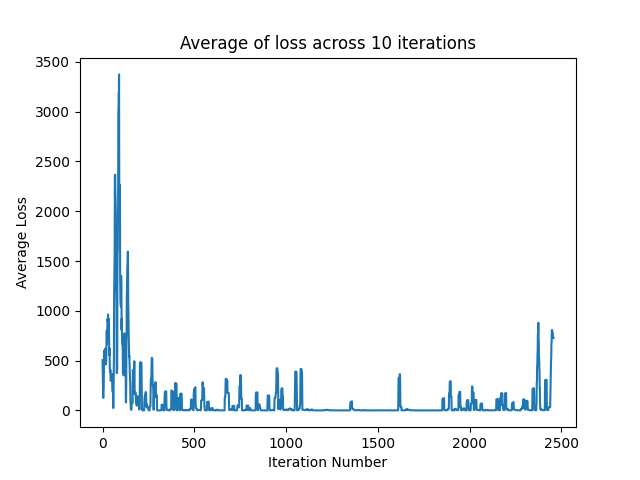
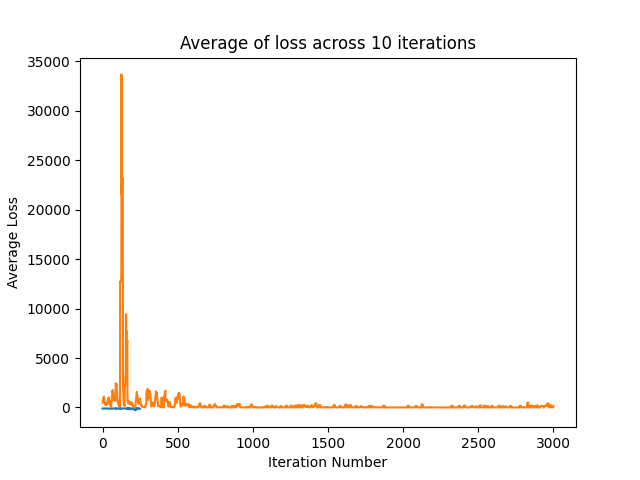
Added logs and verbosity for camera agent, fixed frame processing. Created new cliffwalking xml with modified rewards. Generated graphs for runs.

diff --git a/Grammar_Demo/models/DeepQLearner.py b/Grammar_Demo/models/DeepQLearner.py
@@ -72,7 +72,6 @@ class DeepQLearner(object):
         discount_factor = 0.5, \
         epsilon = 0.2, \
         epsilon_decay = 1, \
-        dyna = 10, \
         clip = 1, \
         learning_rate = 0.2, \
         load_path = None, \
@@ -90,7 +89,6 @@ class DeepQLearner(object):
         self.discount_factor = discount_factor
         self.epsilon = epsilon
         self.epsilon_decay = epsilon_decay
-        self.dyna = dyna
         self.clip = clip
         self.max_samples = 100
         self.camera = camera
@@ -110,11 +108,11 @@ class DeepQLearner(object):
         # Load saved model
         self.save_path = save_path
 
-        if load_path != None and os.path.exists(save_path):
-            checkpoint = torch.load(load_path, map_location=self.device)
-            self.policy_net.load_state_dict(checkpoint['model_state_dict'])
-            self.optimizer.load_state_dict(checkpoint['optimizer_state_dict'])
-            self.policy_net.eval()
+        # if load_path != None and os.path.exists(save_path):
+        #     checkpoint = torch.load(load_path, map_location=self.device)
+        #     self.policy_net.load_state_dict(checkpoint['model_state_dict'])
+        #     self.optimizer.load_state_dict(checkpoint['optimizer_state_dict'])
+        self.policy_net.eval()
 
         self.losses = []
 
@@ -152,6 +150,7 @@ class DeepQLearner(object):
         while len(self.samples) > self.max_samples:
             self.samples.pop()
         reward += 5 if not self.camera else 0
+
         # query target net for action and calculate expected reward
         self.policy_net.eval()
         with torch.no_grad():
@@ -160,7 +159,6 @@ class DeepQLearner(object):
             else:
                 next_output = self.policy_net(torch.Tensor([next_state]).to(self.device))
             
-            # next_output = self.policy_net(torch.Tensor([next_state]).to(self.device))
             if self.verbose: print("model output: ", next_output)
             next_output_Q, next_output_action = torch.max(next_output.data, 1)
             next_action = next_output_action[0].item()
@@ -294,7 +292,7 @@ class DeepQLearner(object):
         plt.title("Average of loss across " + str(prices_length) + " iterations")
         if self.verbose: plt.show()
         if self.camera:
-            plt.savefig("./graphs/CameraDQN_Avg_Loss_graph.png")
+            plt.savefig("./graphs/dynaCameraDQN_Avg_Loss_graph.png")
         else:
             plt.savefig("./graphs/DQN_Avg_Loss_graph.png")
 
@@ -304,7 +302,7 @@ class DeepQLearner(object):
         plt.title("Overall Loss")
         if self.verbose: plt.show()
         if self.camera:
-            plt.savefig("./graphs/CameraDQN_Loss_graph.png")
+            plt.savefig("./graphs/dynaCameraDQN_Loss_graph.png")
         else:
             plt.savefig("./graphs/DQN_Loss_graph.png")
 

diff --git a/Grammar_Demo/grammar_api.py b/Grammar_Demo/grammar_api.py
@@ -9,6 +9,7 @@ from MalmoLogicState import *
 from constants import *
 from parse_grammar import GrammarParser
 from models.Agent import Agent
+from models.TabQAgent import TabQAgent
 from models.DQNAgent import DQNAgent
 from models.CameraDQNAgent import CameraDQNAgent
 import MalmoPython
@@ -19,6 +20,7 @@ import random
 import sys
 import time
 import argparse
+import matplotlib.pyplot as plt
 
 if sys.version_info[0] == 2:
     # Workaround for https://github.com/PythonCharmers/python-future/issues/262
@@ -221,6 +223,18 @@ class GrammarMission:
     def getGrammar(self):
         return self.grammar_logic
 
+    def plot_reward(self, cumulative_rewards):
+        plt.plot(cumulative_rewards)
+        plt.xlabel("Iteration Number")
+        plt.ylabel("Rewards")
+        plt.title("Rewards across " + str(self.repeats) + " iterations")
+        if self.verbose: plt.show()
+        if type(self.agent) == TabQAgent:
+            plt.savefig("./graphs/TabQ_Reward_graph.png")
+        elif type(self.agent) == DQNAgent:
+            plt.savefig("./graphs/DQN_Reward_graph.png")
+        elif type(self.agent) == CameraDQNAgent:
+            plt.savefig("./graphs/dynaCameraDQN_Reward_graph.png")
 
     '''
     @summary: Runs the current mission
@@ -276,12 +290,13 @@ class GrammarMission:
             cumulative_reward = self.agent.run()
             if self.verbose: print('\n Cumulative reward: %d' % cumulative_reward)
             cumulative_rewards += [ cumulative_reward ]
-
             if i % checkpoint_iter == 0:
                 self.agent.logOutput()
 
             # -- clean up -- #
             time.sleep(0.5) # (let the Mod reset)
+            
+        self.plot_reward(cumulative_rewards)
         self.agent.learner.plot_loss()
         if self.verbose: 
             print("Done.")
@@ -293,7 +308,7 @@ parser = argparse.ArgumentParser(description='Run missions in Malmo')
 parser.add_argument("--mission_file", help='choose which mission file to run', default='./grammar_demo.xml') 
 parser.add_argument("--quest_file", help='choose file to specify quest entities', default='./quest_entities.xml')
 parser.add_argument("--grammar_file", help='choose file to specify logical grammar', default="./quest_grammar.json")
-parser.add_argument("--agent", help='choose which agent to run (TabQAgent, DQNAgent)', default="TabQAgent")
+parser.add_argument("--agent", help='choose which agent to run (TabQAgent, DQNAgent, CameraDQNAgent)', default="TabQAgent")
 parser.add_argument("--repeats", help='How many times the agent is run (default=100)', type=int, default=100)
 parser.add_argument("--verbose", help='Provides more detailed info about the mission run', action='store_true', default=False)
 args = parser.parse_args()

diff --git a/Grammar_Demo/models/CameraDQNAgent.py b/Grammar_Demo/models/CameraDQNAgent.py
@@ -10,6 +10,7 @@ from MalmoLogicState import *
 from constants import *
 from models.Agent import Agent
 from PIL import Image
+import imagehash as iHash
 import MalmoPython
 import json
 import logging
@@ -44,17 +45,15 @@ class CameraDQNAgent(Agent):
         logicState = agentHost.state
         self.move_actions = ["movenorth 1", "movesouth 1", "movewest 1", "moveeast 1"]
         (x1, y1, z1), (x2, y2, z2) = logicState.world_bounds.roundPosition()
-        self.dyna_rate = 1
+        self.dyna_rate = 0.95
         self.counter = 0
         self.gamma = 0.9
         self.learner = DeepQLearner(
             input_size = 31,
-            num_actions=len(self.move_actions) + len(logicState.actions),
             discount_factor=self.gamma,
             epsilon=0.1,
             learning_rate = 0.0005,
             clip = 0.2,
-            dyna = self.dyna_rate,
             load_path='cache/camera_dqn.pkl',
             save_path='cache/camera_dqn.pkl',
             camera=True,
@@ -102,7 +101,7 @@ class CameraDQNAgent(Agent):
         # flips channel to give rgb image instead of blue scaled
         embedding = np.flip(embedding, -1)
         if self.saveSnapshots and self.verbose: # save image
-            curr_hash = hash(Image.fromarray(embedding))
+            curr_hash = iHash.average_hash(Image.fromarray(embedding))
             cv2.imwrite('./images/' + str(curr_hash) + '-' + str(self.counter) + '.jpg', embedding)
             self.counter += 1
         embedding = np.moveaxis(embedding, -1, 0)
@@ -260,9 +259,9 @@ class CameraDQNAgent(Agent):
         self.learner.query(final_s, current_reward)
 
         # double check if this improves accuracy
-        # if self.dyna_rate > random.random():
-        #     if self.verbose: print("Running dyna replay...")
-        #     self.learner.run_dyna()
+        if self.dyna_rate > random.random():
+            if self.verbose: print("Running dyna replay...")
+            self.learner.run_dyna()
 
         if self.verbose: self.drawQ()
         self.cumulative_rewards.append(total_reward)
